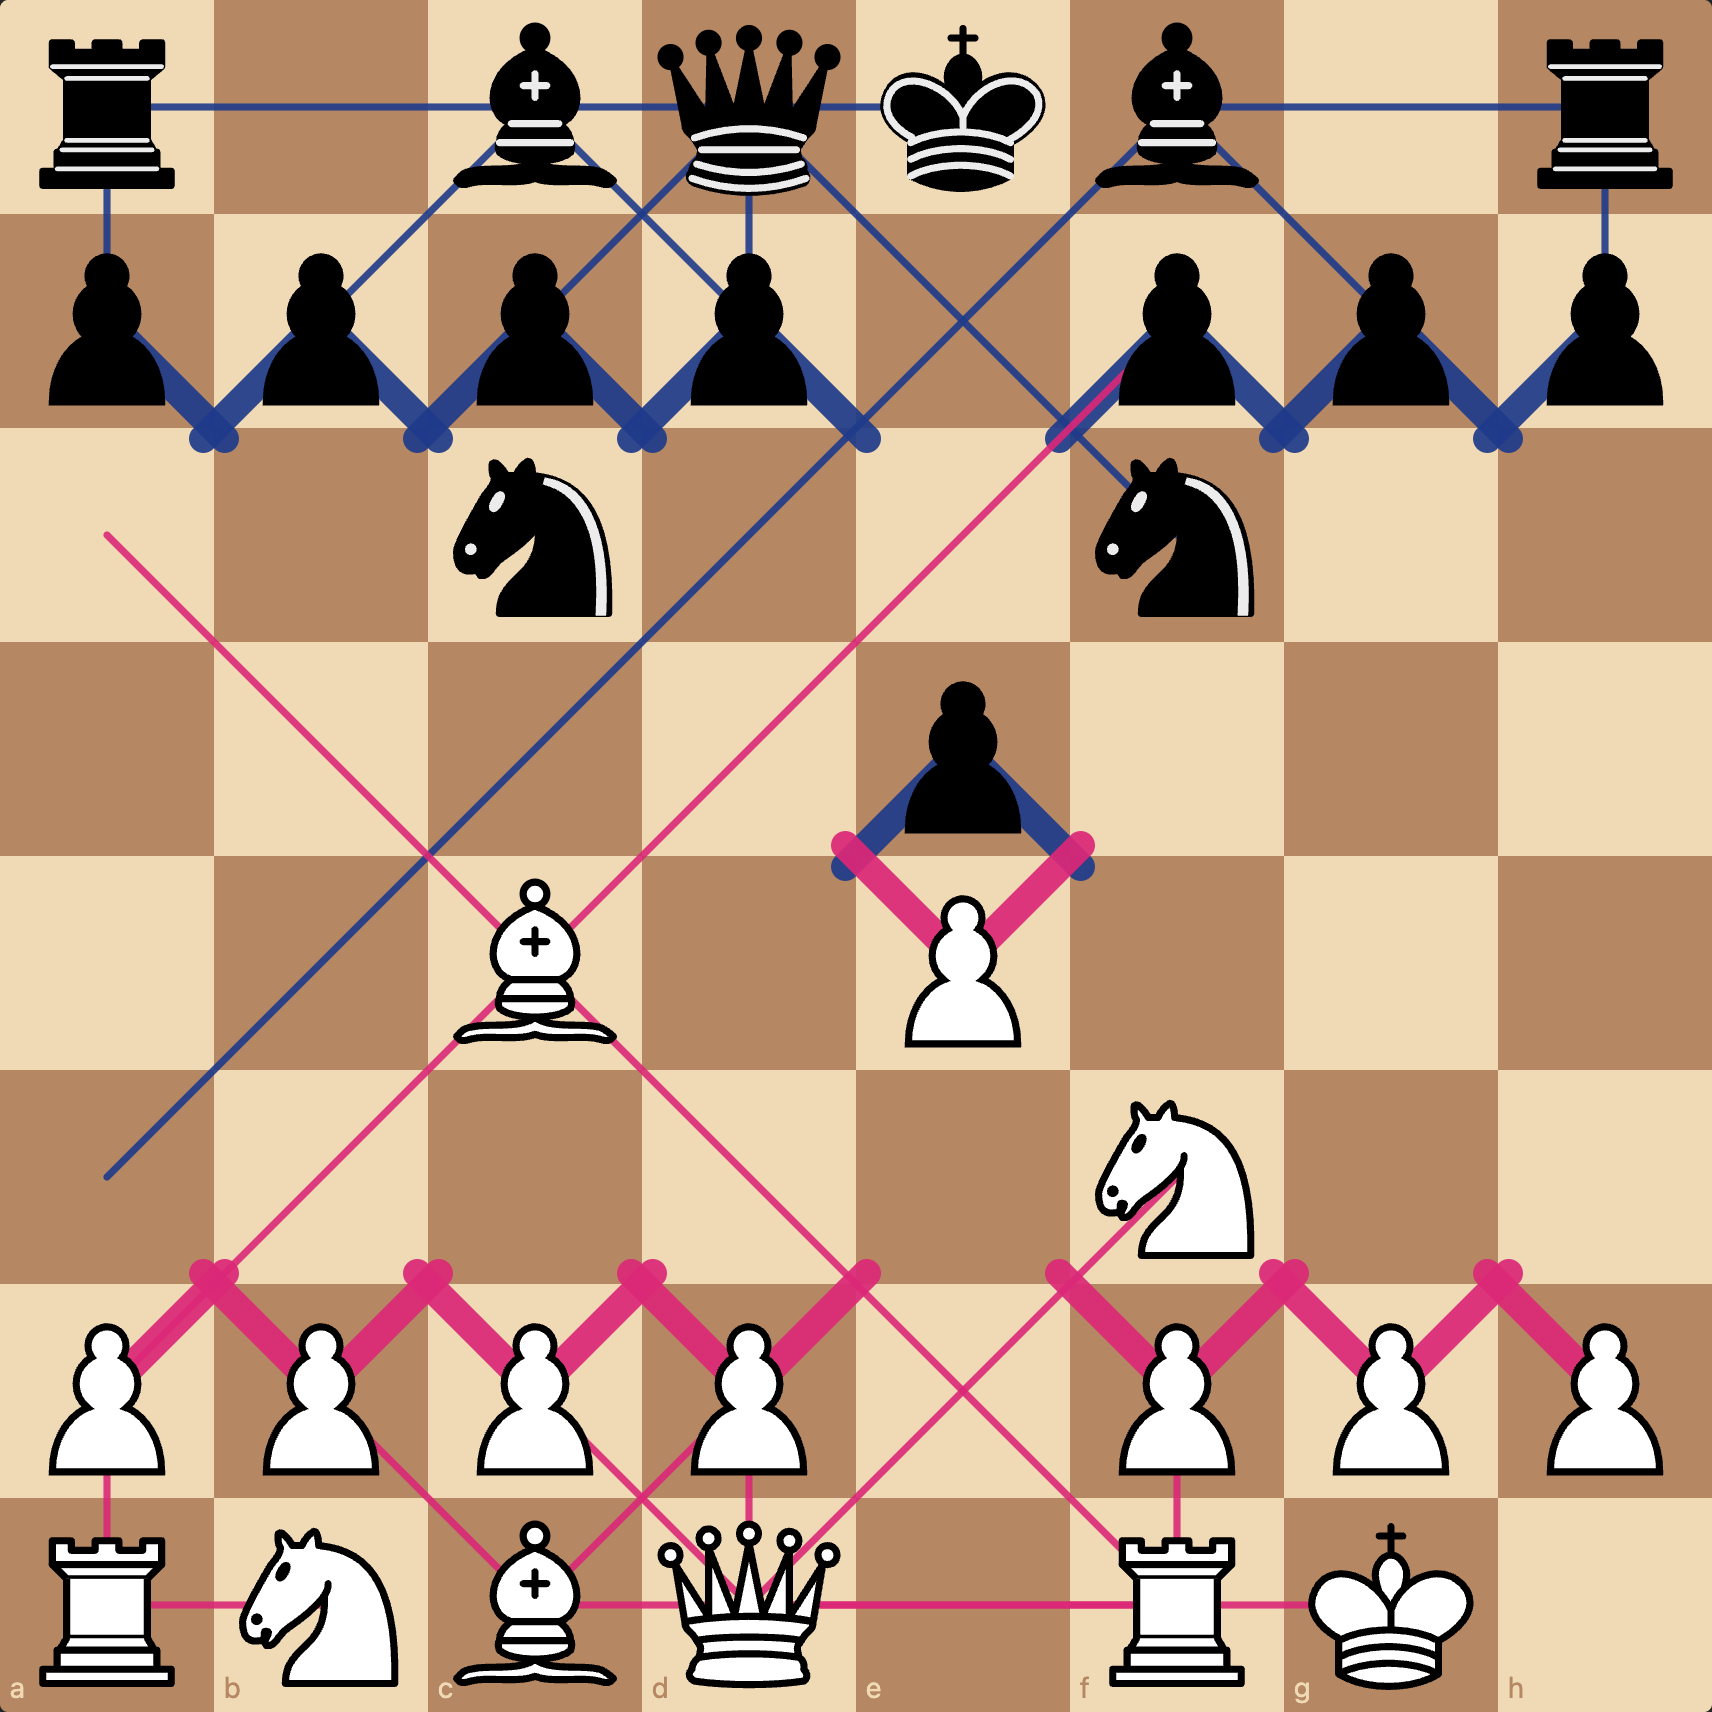
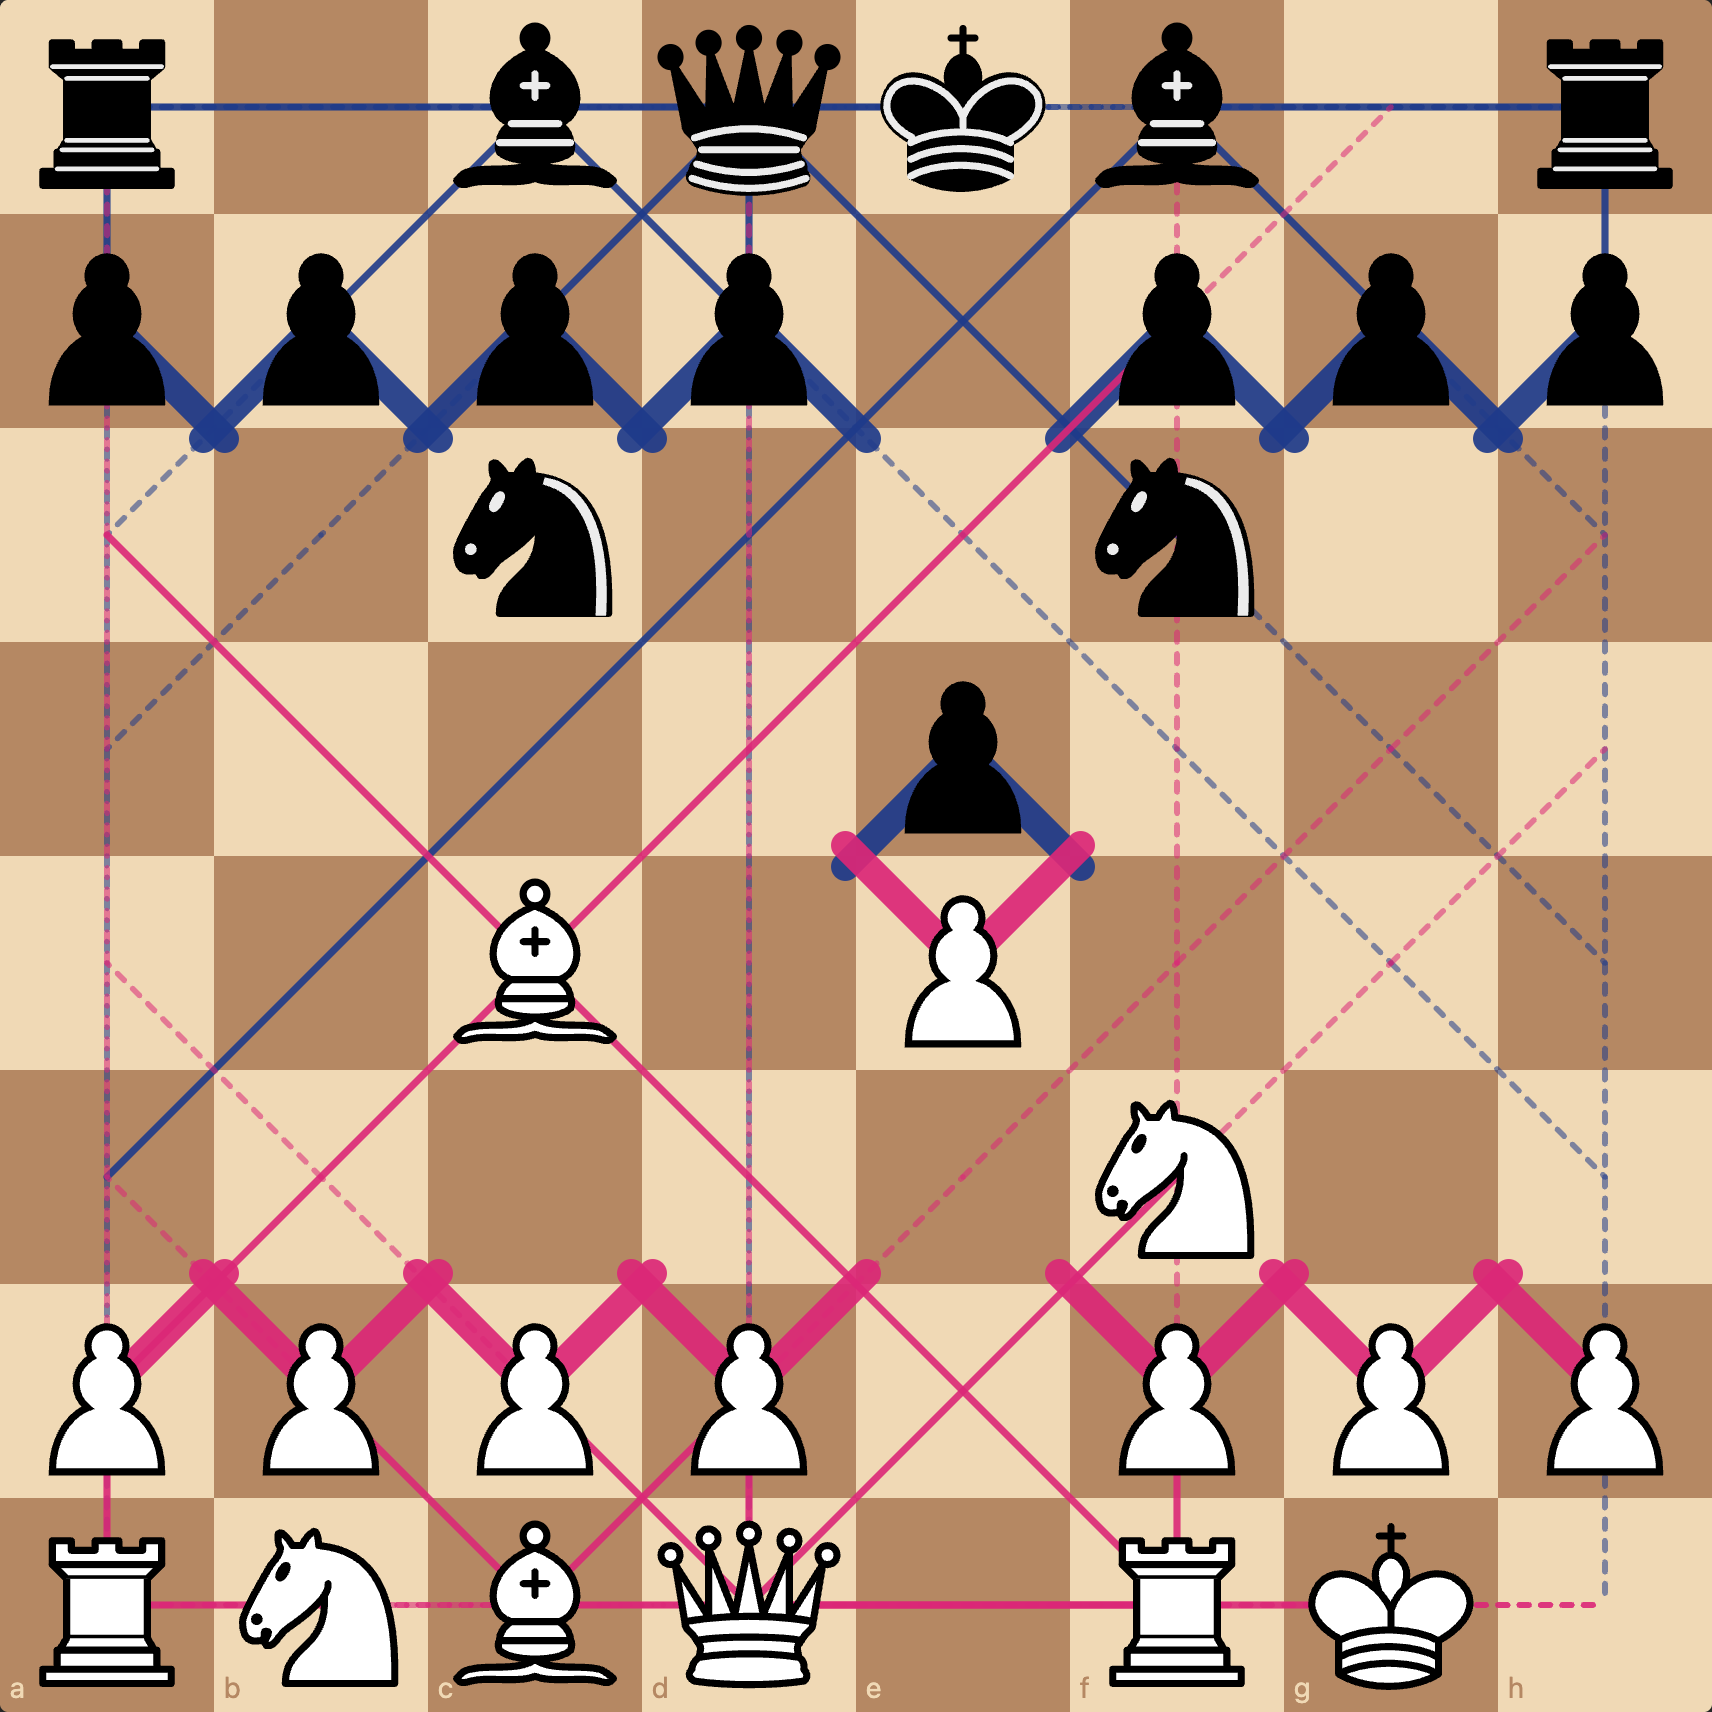
iter: cleaner viz 1 numbers, viz 2 dotted continuation reaches edge, denser ice, new knight-fork viz

diff --git a/js/viz4-forks.js b/js/viz4-forks.js
@@ -1,0 +1,137 @@
+// Visualization 4: knight reach + fork detection.
+//
+// For every knight on the board:
+//   - Small colored dot on each square the knight could move to (its 8 L-jumps, minus squares
+//     occupied by friendly pieces).
+//   - For each landing square, count how many enemy pieces the knight would attack from there.
+//     If that's 2 or more, the square is a FORK SQUARE. Big warning ring + dashed lines from the
+//     fork square out to each forked piece.
+//   - If the landing square already holds an enemy piece, that capture counts toward the fork
+//     count too (capture + threat is still a "we lose two things" move).
+//
+// Use this to spot forks we could play, and forks the opponent could play against us.
+
+import { parseFEN, fileOf, rankOf } from './chess-utils.js';
+import { createBoardSVG, renderPieces, squareCenter, SQ, el } from './board.js';
+
+const COLOR_W = '#db2777';
+const COLOR_B = '#1e3a8a';
+const FORK_FILL = 'rgba(250, 204, 21, 0.55)';
+const FORK_RING = '#dc2626';
+
+const KNIGHT_OFFSETS = [[+1,+2],[+2,+1],[+2,-1],[+1,-2],[-1,-2],[-2,-1],[-2,+1],[-1,+2]];
+
+function knightSquares(idx) {
+  const f = fileOf(idx), r = rankOf(idx);
+  const out = [];
+  for (const [df, dr] of KNIGHT_OFFSETS) {
+    const nf = f + df, nr = r + dr;
+    if (nf < 0 || nf > 7 || nr < 0 || nr > 7) continue;
+    out.push(nf + (7 - nr) * 8);
+  }
+  return out;
+}
+
+export function render(container, fen, controls) {
+  const { board } = parseFEN(fen);
+  const { svg, layers } = createBoardSVG();
+  container.replaceChildren(svg);
+
+  for (let i = 0; i < 64; i++) {
+    const p = board[i];
+    if (!p || p.piece !== 'N') continue;
+    if (controls.sideFilter !== 'both' && controls.sideFilter !== p.color) continue;
+
+    const color = p.color === 'w' ? COLOR_W : COLOR_B;
+    const enemyColor = p.color === 'w' ? 'b' : 'w';
+
+    const destinations = knightSquares(i).filter(dst => {
+      const occ = board[dst];
+      return !occ || occ.color !== p.color;
+    });
+
+    for (const dst of destinations) {
+      const dstAttacks = knightSquares(dst);
+      const enemiesHit = [];
+      // If the move is a capture, count the captured piece as a "hit" as well.
+      if (board[dst] && board[dst].color === enemyColor) {
+        enemiesHit.push({ idx: dst, captured: true });
+      }
+      for (const sq of dstAttacks) {
+        if (sq === i) continue;
+        const occ = board[sq];
+        if (occ && occ.color === enemyColor) enemiesHit.push({ idx: sq, captured: false });
+      }
+
+      const isFork = enemiesHit.length >= 2;
+      if (isFork) {
+        drawForkSquare(layers.attack, dst, enemiesHit);
+      } else if (controls.showReach) {
+        drawReachDot(layers.attack, dst, color);
+      }
+    }
+  }
+
+  renderPieces(layers.pieces, board);
+}
+
+function drawReachDot(layer, dst, color) {
+  const c = squareCenter(dst);
+  const dot = el('circle', {
+    cx: c.x, cy: c.y, r: SQ * 0.10,
+    fill: color, opacity: 0.55,
+  });
+  layer.appendChild(dot);
+}
+
+function drawForkSquare(layer, dst, enemiesHit) {
+  const c = squareCenter(dst);
+
+  // Yellow disc + red ring under the knight target so it's impossible to miss.
+  const disc = el('circle', {
+    cx: c.x, cy: c.y, r: SQ * 0.36,
+    fill: FORK_FILL, stroke: FORK_RING, 'stroke-width': 4,
+  });
+  layer.appendChild(disc);
+
+  // Dashed lines from the fork square to each enemy that would be attacked.
+  // Solid line if the move is a capture of that piece (we *take* it on the way),
+  // dashed otherwise (we *threaten* it).
+  for (const enemy of enemiesHit) {
+    const ec = squareCenter(enemy.idx);
+    const attrs = {
+      x1: c.x, y1: c.y, x2: ec.x, y2: ec.y,
+      stroke: FORK_RING, 'stroke-width': 2.5, opacity: 0.75,
+      'stroke-linecap': 'round',
+    };
+    if (!enemy.captured) attrs['stroke-dasharray'] = '5 5';
+    const ln = el('line', attrs);
+    layer.appendChild(ln);
+  }
+}
+
+export const DEFAULTS = { sideFilter: 'both', showReach: true };
+export const NAME = 'Knight forks';
+export function buildControls(root, state, onChange) {
+  root.innerHTML = '';
+  const sideLabel = document.createElement('label');
+  sideLabel.innerHTML = `Side <select><option value="both">both</option><option value="w">white knights</option><option value="b">black knights</option></select>`;
+  const sideSelect = sideLabel.querySelector('select');
+  sideSelect.value = state.sideFilter;
+  sideSelect.addEventListener('change', () => { state.sideFilter = sideSelect.value; onChange(); });
+
+  const reachLabel = document.createElement('label');
+  const cb = document.createElement('input'); cb.type = 'checkbox'; cb.checked = state.showReach;
+  cb.addEventListener('change', () => { state.showReach = cb.checked; onChange(); });
+  reachLabel.append(cb, document.createTextNode('Show all reachable squares (small dots)'));
+
+  root.append(sideLabel, reachLabel);
+}
+export function legendHTML() {
+  return `
+    <div>For every knight on the board, we look at the 8 squares it could jump to next turn.</div>
+    <div style="margin-top: 6px;"><span class="swatch" style="background:#db2777"></span><span class="swatch" style="background:#1e3a8a"></span> small dot = a square the knight could move to. Side colour matches the knight.</div>
+    <div style="margin-top: 6px;"><span class="swatch" style="background: rgba(250,204,21,0.55); border: 2px solid #dc2626"></span> yellow disc + red ring = a <b>fork square</b>: moving the knight here would attack 2+ enemy pieces simultaneously.</div>
+    <div style="margin-top: 6px;">From the fork square, dashed lines go to each piece that would be threatened; a solid line means the fork move also captures that piece.</div>
+  `;
+}

diff --git a/js/viz3-pins.js b/js/viz3-pins.js
@@ -87,16 +87,16 @@ function drawIce(layer, idx, pin, board) {
   const pinnedVal = pieceValue(pinned.piece);
   const diff = behindVal - pinnedVal;
 
-  // Ice cover, capped so the piece remains visible.
-  // diff 1 → 0.22, 2 → 0.32, 4 → 0.44, 6+ → 0.52. Absolute (behind=K) → 0.55.
+  // Ice cover, shrunk so we can crank opacity up. Goal: the ice reads as solid ice,
+  // not water, but never hides enough of the piece to make it unidentifiable.
   let cover;
-  if (isAbsolute) cover = 0.55;
-  else if (diff <= 1) cover = 0.22;
-  else if (diff === 2) cover = 0.32;
-  else if (diff <= 4) cover = 0.44;
-  else cover = 0.52;
+  if (isAbsolute) cover = 0.42;
+  else if (diff <= 1) cover = 0.18;
+  else if (diff === 2) cover = 0.26;
+  else if (diff <= 4) cover = 0.34;
+  else cover = 0.40;
 
-  const opacity = isAbsolute ? 0.55 : 0.62;
+  const opacity = 0.92;
   const spriteName = (isAbsolute || diff >= 4) ? 'ice_full' : 'ice_half';
 
   const iceH = SQ * cover;

diff --git a/js/positions.js b/js/positions.js
@@ -38,6 +38,16 @@ export const POSITIONS = [
     fen: '4k3/p3pppp/8/4N3/8/2b5/PPP1PPPP/4K3 w - - 0 1',
     notes: 'White knight on e5 attacked by Bc3, no defenders, the protection viz fades the glyph and flags it.',
   },
+  {
+    name: 'Royal fork preview',
+    fen: '4k3/3q4/8/8/4N3/8/8/4K3 w - - 0 1',
+    notes: 'White knight on e4 can hop to f6 attacking both the king on e8 and the queen on d7. The forks viz lights it up.',
+  },
+  {
+    name: 'Fork-rich middlegame',
+    fen: 'r3k2r/ppp2ppp/2nb1n2/3qp3/3P4/2N1BN2/PPP1QPPP/R3K2R w KQkq - 0 1',
+    notes: 'Tactical mess with knights for both sides. The forks viz should highlight several squares where a knight move would hit two enemy pieces.',
+  },
 ];
 
 export const DEFAULT_FEN = POSITIONS[1].fen;

diff --git a/js/main.js b/js/main.js
@@ -3,12 +3,14 @@
 import * as Viz1 from './viz1-control.js';
 import * as Viz2 from './viz2-attacks.js';
 import * as Viz3 from './viz3-pins.js';
+import * as Viz4 from './viz4-forks.js';
 import { POSITIONS, DEFAULT_FEN } from './positions.js';
 
 const VIZ = {
   viz1: Viz1,
   viz2: Viz2,
   viz3: Viz3,
+  viz4: Viz4,
 };
 
 const state = {
@@ -18,6 +20,7 @@ const state = {
     viz1: { ...Viz1.DEFAULTS },
     viz2: { ...Viz2.DEFAULTS },
     viz3: { ...Viz3.DEFAULTS },
+    viz4: { ...Viz4.DEFAULTS },
   },
 };
 

diff --git a/js/viz1-control.js b/js/viz1-control.js
@@ -104,11 +104,10 @@ function drawCounts(layer, ctrl) {
 }
 
 function addCount(layer, x, y, n, rgbArr) {
-  // Lighter, more natural-looking digits: smaller weight, thinner outline.
+  // No outline: the white halo around the digits made them harder to read.
   const t = el('text', {
     x, y,
     fill: rgb(rgbArr),
-    stroke: 'rgba(255,255,255,0.85)', 'stroke-width': 1.5, 'paint-order': 'stroke',
     'font-size': 14, 'font-weight': 500, 'text-anchor': 'end',
     'font-family': 'sans-serif',
   });

diff --git a/js/viz2-attacks.js b/js/viz2-attacks.js
@@ -119,7 +119,9 @@ function drawSlider(layer, board, from, color) {
     });
     layer.appendChild(solid);
 
-    if (v.blockedBy != null && blockerIdx < v.ray.length - 1) {
+    // Dotted continuation past the blocker, all the way to the board edge.
+    // (The ray itself ends AT the blocker square; we keep walking the direction beyond it.)
+    if (v.blockedBy != null) {
       const [df, dr] = v.dir;
       let f = fileOf(v.blockedBy), r = rankOf(v.blockedBy);
       let prev = solidEnd;

diff --git a/index.html b/index.html
@@ -17,6 +17,7 @@
       <button class="tab active" data-viz="viz1">1 · Controlled space</button>
       <button class="tab" data-viz="viz2">2 · Attack paths</button>
       <button class="tab" data-viz="viz3">3 · Pins &amp; protection</button>
+      <button class="tab" data-viz="viz4">4 · Knight forks</button>
     </nav>
 
     <div class="layout">
